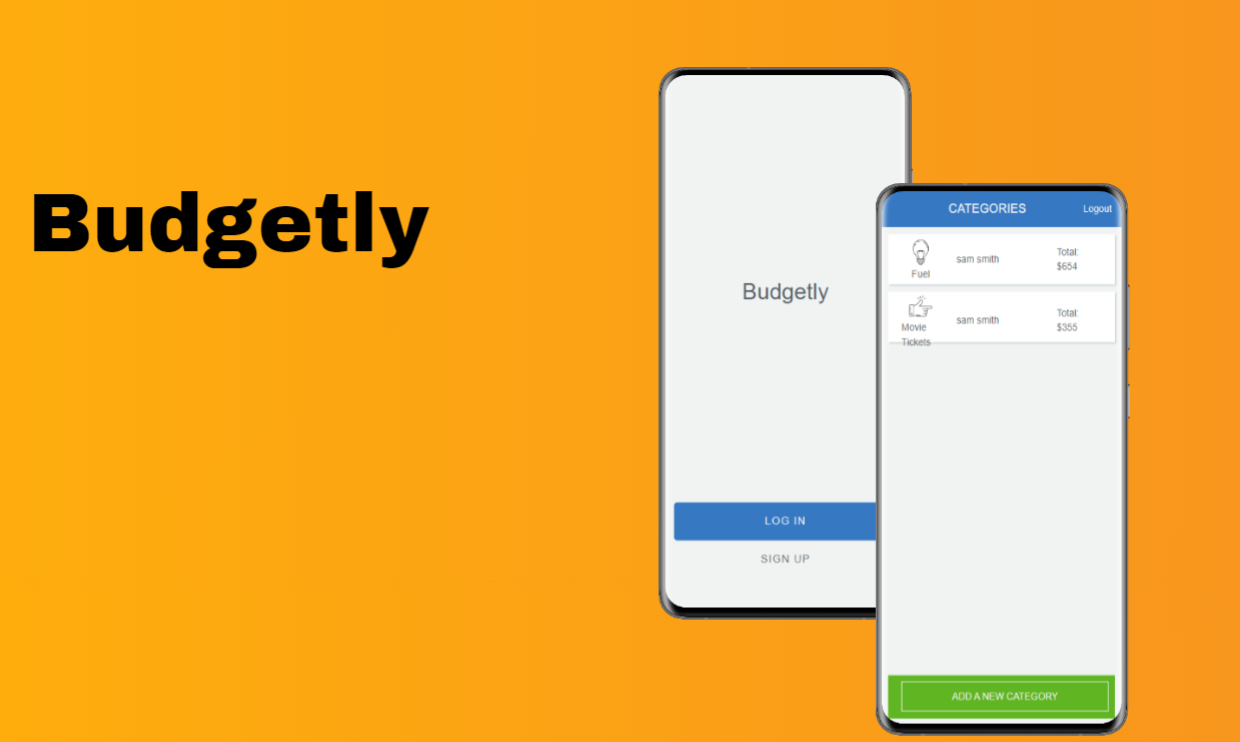
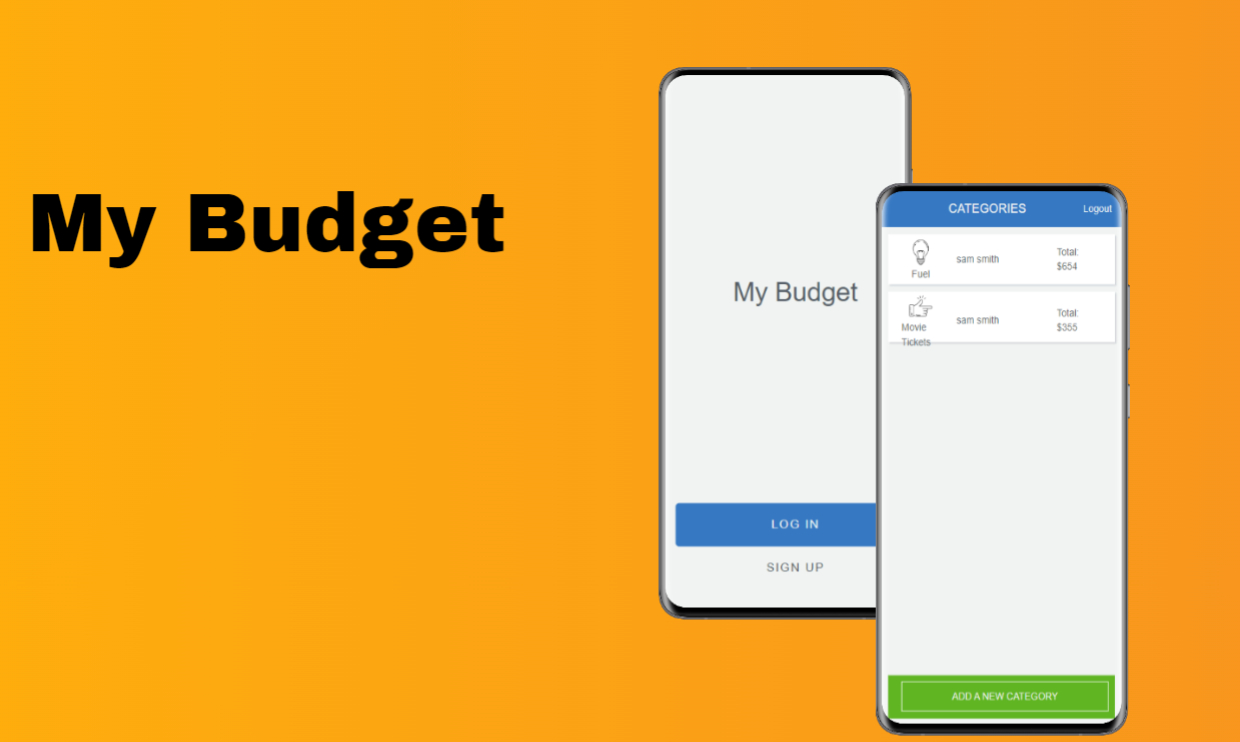
Make changes

Changed region(s): [[0.0306, 0.248, 0.429, 0.372], [0.521, 0.6819, 0.7048, 0.7749], [0.5823, 0.372, 0.7048, 0.434]]

diff --git a/app/controllers/expenditures_controller.rb b/app/controllers/expenditures_controller.rb
@@ -5,7 +5,7 @@ class ExpendituresController < ApplicationController
   # GET /expenditures or /expenditures.json
   def index
     @group_id = Group.find(params[:group_id])
-    @expenditures = Expenditure.where(group_id: @group_id.id)
+    @expenditures = Expenditure.where(group_id: @group_id.id).order(created_at: :desc)
   end
 
   # GET /expenditures/1 or /expenditures/1.json

diff --git a/config/initializers/devise.rb b/config/initializers/devise.rb
@@ -266,7 +266,7 @@ Devise.setup do |config|
   # config.navigational_formats = ['*/*', :html]
 
   # The default HTTP method used to sign out a resource. Default is :delete.
-  config.sign_out_via = :get
+  config.sign_out_via = :delete
 
   # ==> OmniAuth
   # Add a new OmniAuth provider. Check the wiki for more information on setting

diff --git a/config/routes.rb b/config/routes.rb
@@ -1,5 +1,8 @@
 Rails.application.routes.draw do
   devise_for :users 
+  devise_scope  :user do
+    get 'users/sign_out' => 'devise/sessions#destroy'
+  end
   
   resources :users do 
     resources :groups do

diff --git a/README.md b/README.md
@@ -12,7 +12,7 @@
 
 ## Demo Link: 
 
-[live Demo](https://budget-app-003.herokuapp.com/) 
+[live Demo](https://my-budget123.herokuapp.com/) 
 
 
 ## Built With
